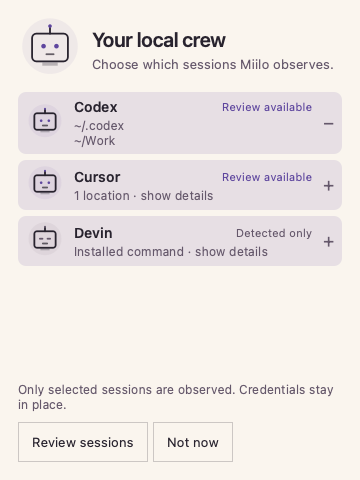
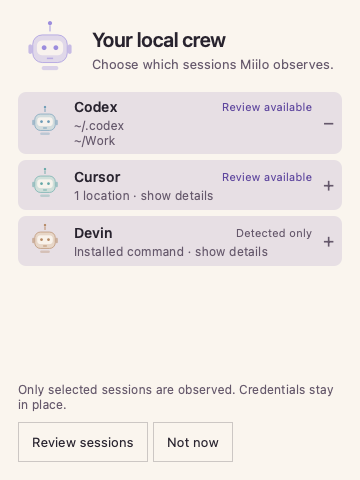
Restore original shared robots throughout native onboarding

diff --git a/assets/RobotProgram.js b/assets/RobotProgram.js
@@ -1,0 +1,3 @@
+.pragma library
+// Generated from shared robot.inc, appearance.inc and palette. Do not edit.
+var source = "widget \"miilo-portrait\" {\n size: 1x1\n  // Presentation preferences only: never alter observations or action authority.\n  state robotMotion = \"full\" persist\n  state robotPace = \"normal\" persist\n  state robotPersonality = \"expressive\" persist\n  let robotSpeed = robotPace == \"slow\" ? 0.7 : robotPace == \"lively\" ? 1.3 : 1\n  component RobotAppearance() {\n    Text { text: \"Robot personality\"; style: small; color: muted }\n    Flow {\n      gap: 6\n      for option in [\"calm\", \"expressive\"] {\n        Button { text: option == \"calm\" ? \"Calm\" : \"Expressive\"; color: robotPersonality == option ? accent : muted; onTap: robotPersonality = option }\n      }\n    }\n    Text { text: \"Motion\"; style: small; color: muted }\n    Flow {\n      gap: 6\n      for option in [\"full\", \"reduced\", \"off\"] {\n        Button { text: option == \"full\" ? \"Full\" : option == \"reduced\" ? \"Reduced\" : \"Off\"; color: robotMotion == option ? accent : muted; onTap: robotMotion = option }\n      }\n    }\n    if robotMotion != \"off\" {\n      Flow {\n        gap: 6\n        for option in [\"slow\", \"normal\", \"lively\"] {\n          Button { text: option == \"slow\" ? \"Slow\" : option == \"lively\" ? \"Lively\" : \"Normal\"; color: robotPace == option ? accent : muted; onTap: robotPace = option }\n        }\n      }\n    }\n  }\n\n state portraitAgent = {_key: \"welcome\", name: \"Miilo\", status: \"ready\", health: \"healthy\"}\n state portraitSize = 64\n state robotColors = []\n let actors = [portraitAgent]\n let works = []\n let robotPalette = [\n    {name: \"Blue\", value: blue ?? accent}, {name: \"Green\", value: green ?? accent},\n    {name: \"Purple\", value: purple ?? magenta ?? accent}, {name: \"Orange\", value: orange ?? accent},\n    {name: \"Cyan\", value: cyan ?? accent}, {name: \"Red\", value: red ?? accent}\n ]\n  component Bot(agent, s, lookX = 0, lookY = 0, slot = -1, alert = \"\") {\n    Canvas {\n      width: s\n      height: s\n      let automatic = abs(sum(split(agent._key ?? agent.id ?? agent.name ?? \"\", \"\").map(c => indexOf(split(\"0123456789abcdef\", \"\"), c)))) % len(robotPalette)\n      let chosen = get(find(robotColors, p => p.key == (agent._key ?? \"\")), \"color\", automatic)\n      let ink = mix(robotPalette[chosen % len(robotPalette)].value, foreground, 0.12)\n      let motion = robotMotion != \"off\"\n      let expressive = robotPersonality != \"calm\" && robotMotion == \"full\"\n      let clock = motion ? time * robotSpeed : 0\n      let unavailable = contains([\"offline\", \"unreachable\", \"disconnected\"], agent.status) || contains([\"offline\", \"unreachable\", \"unknown\"], agent.health)\n      let owned = works.filter(w => contains(w._actorKeys ?? [], agent._key ?? \"\"))\n      let failed = agent.status == \"failed\" || agent.status == \"error\" || any(owned, w => w.lifecycle == \"failed\")\n      let focused = !unavailable && !failed && (agent.status == \"reviewing\" || any(owned, w => w.lifecycle == \"active\" && contains([\"verifying\", \"reviewing\"], w.phase)))\n      let blocked = contains([\"blocked\", \"failed\"], agent.status) || any(works, w => contains(w._actorKeys ?? [], agent._key ?? \"\") && (w.lifecycle == \"failed\" || w.attention != \"none\"))\n      let wistful = expressive && !unavailable && blocked && (clock + max(slot, 0) * 3.7) % 23 < 2.5\n      let cx = width / 2\n      let cy = height * 0.48\n      let r = min(width, height) * 0.27\n      let on = !unavailable && !failed && contains([\"working\", \"running\"], agent.status)\n      let resting = !unavailable && contains([\"idle\", \"resting\"], agent.status) && agent.health == \"healthy\" && !blocked\n      let phase = (slot >= 0 ? slot : max(indexOf(actors, agent), 0)) * 0.8\n      let glanceTime = (clock + max(slot, 0) * 3.7) % 17\n      let glance = expressive && !unavailable && !resting && glanceTime < 2 ? pow(sin(glanceTime / 2 * 3.14159), 2) : 0\n      let eyeX = lookX * r * 0.2 * glance\n      let eyeY = lookY * r * 0.16 * glance + (wistful ? r * 0.14 : 0)\n      let blinking = motion && !unavailable && (clock + phase) % 5.8 < 0.16\n      let wink = expressive && !blocked && !focused && !unavailable && !resting && (clock + phase) % 29 > 27.8 && (clock + phase) % 29 < 28.05\n      let led = unavailable ? muted : failed || agent.health == \"degraded\" ? red : resting ? alpha(ink, 0.55) : ink\n      let bob = on && expressive ? sin(clock * 1.8 + phase) * 1.2 : 0\n      let y = cy + bob\n      // A soft halo, rounded shell, inset visor, and two luminous eyes.\n      if on && expressive {\n        circle(cx, y, r * 1.6, fill: alpha(ink, 0.07 + 0.03 * sin(clock * 2)))\n      }\n      line(cx, y - r, cx, y - r * 1.35, stroke: alpha(led, 0.6), width: 1.5)\n      circle(cx, y - r * 1.48, r * 0.12, fill: led)\n      rect(cx - r * 1.25, y - r * 0.25, r * 0.22, r * 0.55, radius: 2, fill: alpha(ink, 0.55))\n      rect(cx + r * 1.03, y - r * 0.25, r * 0.22, r * 0.55, radius: 2, fill: alpha(ink, 0.55))\n      rect(cx - r, y - r * 0.8, r * 2, r * 1.6, radius: r * 0.55, fill: mix(background, ink, 0.28), stroke: alpha(ink, 0.65), width: 1)\n      rect(cx - r * 0.76, y - r * 0.48, r * 1.52, r * 0.86, radius: r * 0.3, fill: alpha(background, 0.9))\n      if unavailable {\n        line(cx - r * 0.5, y, cx - r * 0.2, y, stroke: led, width: 1.5, cap: round)\n        line(cx + r * 0.2, y, cx + r * 0.5, y, stroke: led, width: 1.5, cap: round)\n      } else if failed {\n        for side in [-1, 1] {\n          let ex = cx + side * r * 0.34\n          line(ex - r * 0.1, y - r * 0.17, ex + r * 0.1, y + r * 0.03, stroke: led, width: 1.5, cap: round)\n          line(ex + r * 0.1, y - r * 0.17, ex - r * 0.1, y + r * 0.03, stroke: led, width: 1.5, cap: round)\n        }\n      } else if wistful {\n        line(cx - r * 0.48 + eyeX, y + r * 0.08, cx - r * 0.2 + eyeX, y + r * 0.17, stroke: led, width: 1.8, cap: round)\n        line(cx + r * 0.2 + eyeX, y + r * 0.17, cx + r * 0.48 + eyeX, y + r * 0.08, stroke: led, width: 1.8, cap: round)\n      } else if resting || blinking {\n        line(cx - r * 0.5, y, cx - r * 0.2, y, stroke: led, width: 1.5, cap: round)\n        line(cx + r * 0.2, y, cx + r * 0.5, y, stroke: led, width: 1.5, cap: round)\n      } else if focused {\n        rect(cx - r * 0.53 + eyeX, y - r * 0.1, r * 0.32, r * 0.12, radius: 1, fill: led)\n        rect(cx + r * 0.21 + eyeX, y - r * 0.1, r * 0.32, r * 0.12, radius: 1, fill: led)\n      } else if wink {\n        line(cx - r * 0.5, y, cx - r * 0.2, y, stroke: led, width: 1.5, cap: round)\n        circle(cx + r * 0.34, y - r * 0.06, r * 0.14, fill: led)\n      } else {\n        circle(cx - r * 0.34 + eyeX, y - r * 0.06 + eyeY, r * 0.14, fill: led)\n        circle(cx + r * 0.34 + eyeX, y - r * 0.06 + eyeY, r * 0.14, fill: led)\n      }\n      if blocked && !resting && !unavailable && !failed {\n        // Raised brow asks for attention; it never implies a new provider event.\n        line(cx + r * 0.18, y - r * 0.34, cx + r * 0.48, y - r * 0.42, stroke: led, width: 1.5, cap: round)\n      }\n      if alert != \"\" {\n        let markSize = min(s * 0.34, max(19.2, s * 0.288))\n        let markX = cx + r * 0.88 - 8\n        let markY = y - r * 0.7 - 7\n        if alert == \"!!\" {\n          text(\"!\", markX, markY, size: markSize, bold: true, color: mix(red, foreground, 0.15))\n          text(\"!\", markX + markSize * 0.3, markY, size: markSize, bold: true, color: mix(red, foreground, 0.15))\n        } else {\n          text(alert, markX, markY, size: markSize, bold: true, color: mix(orange, foreground, 0.2))\n        }\n      }\n      if resting {\n        // Keep the drifting letters inside the compact robot canvas.\n        for i in range(2) {\n          let drift = (motion && robotMotion == \"full\" ? clock * 0.28 + i * 0.5 : 0.2 + i * 0.4) % 1\n          text(\"z\", cx + r * (0.8 + drift * 0.55), y - r * (0.65 + drift * 0.8), size: max(9, s * 0.12) + drift * 2, bold: true, color: alpha(mix(ink, foreground, 0.8), 0.9 * (1 - drift * drift)))\n        }\n      }\n      if wistful { path([[cx - r * 0.18, y + r * 0.62], [cx, y + r * 0.52], [cx + r * 0.18, y + r * 0.62]], stroke: alpha(ink, 0.6), width: 1.5) }\n      else { line(cx - r * 0.18, y + r * 0.56, cx + r * 0.18, y + r * 0.56, stroke: alpha(ink, 0.6), width: 1.5) }\n      rect(cx - r * 0.48, y + r, r * 0.96, r * 0.24, radius: 2, fill: alpha(ink, 0.35))\n    }\n  }\n\n Bot { agent: portraitAgent; s: portraitSize }\n}\n";

diff --git a/ui/components/onboarding/RobotPortrait.qml b/ui/components/onboarding/RobotPortrait.qml
@@ -1,49 +1,61 @@
 import QtQuick
+import "../../../assets/RobotProgram.js" as RobotProgram
+import "../../../vendor/owl/Owl.js" as Owl
+import "../../../vendor/owl/OwlLayout.js" as Layout
 
-// Original decorative Miilo character. Never represents an enrolled agent.
+// Draw the original shared Bot program. No independent character geometry here.
 Canvas {
     id: root
+    property var widget: null
     property color ink: "white"
     property color accent: ink
-    property string expression: "curious"
+    property string agentKey: "welcome"
+    property string expression: "ready"
     property string motion: "reduced"
     property bool active: true
-    property real clock: 0
+    property real clock: 0.6
+    readonly property var fallbackPalette: Owl.themeFromToml('foreground="' + ink + '"\naccent="' + accent + '"\nbackground="' + (widget ? widget.ink("background") : "#16151d") + '"')
+    readonly property var colors: widget && widget.palette ? widget.palette : fallbackPalette
+    readonly property var program: Owl.compile(RobotProgram.source)
+    readonly property var slots: program.globals.reduce((result, g, i) => { result[g.name] = i; return result }, {})
+    readonly property var instance: new Owl.Instance(program, {
+        theme: name => root.colors[name] === undefined ? null : root.colors[name],
+        tile: name => null,
+        report: message => console.warn("Miilo shared portrait: " + message),
+        changed: () => {}, act: () => {},
+        runInto: () => { throw new Error("A decorative portrait must not run commands") }
+    }, {})
     implicitWidth: 56
     implicitHeight: 56
     Accessible.ignored: true
     FrameAnimation {
-        running: root.active && root.visible && root.motion === "full"
-        onTriggered: root.clock = elapsedTime
+        running: root.active && root.visible && root.motion !== "off"
+        onTriggered: root.clock = elapsedTime + 0.6
     }
     onClockChanged: requestPaint()
-    onInkChanged: requestPaint()
-    onAccentChanged: requestPaint()
+    onColorsChanged: requestPaint()
     onExpressionChanged: requestPaint()
-    onMotionChanged: { clock = 0; requestPaint() }
+    onMotionChanged: { clock = 0.6; requestPaint() }
+    onAgentKeyChanged: requestPaint()
     onWidthChanged: requestPaint()
     onHeightChanged: requestPaint()
+    function setValue(name, value) { instance.values[slots[name]] = Owl.fromJson(value) }
     onPaint: {
+        var s = Math.min(width, height);
+        if (s <= 0) return;
         var c = getContext("2d"); c.reset();
-        var s = Math.min(width,height), x = width/2, y = height*0.44;
-        var t = motion === "full" ? clock : 0;
-        var r = s*.28, blink = t > 0 && t%6.3 < .14;
-        var gaze = expression === "curious" ? Math.sin(t*.55)*r*.09 : 0;
-        function tint(color,a) { return Qt.rgba(color.r,color.g,color.b,a); }
-        c.fillStyle=tint(accent,.07); c.beginPath(); c.arc(x,y,r*1.55,0,Math.PI*2); c.fill();
-        c.strokeStyle=ink; c.lineWidth=1.8; c.lineCap="round";
-        c.beginPath(); c.roundedRect(x-r,y-r*.7,r*2,r*1.55,r*.24,r*.24); c.stroke();
-        c.beginPath(); c.moveTo(x,y-r*.7); c.lineTo(x,y-r*1.03); c.stroke();
-        c.fillStyle=accent; c.beginPath(); c.arc(x,y-r*1.12,r*.1,0,Math.PI*2); c.fill();
-        for (var side=-1;side<=1;side+=2) {
-            var ex=x+side*r*.36+gaze;
-            if (blink || expression === "resting") {
-                c.strokeStyle=accent; c.beginPath(); c.moveTo(ex-r*.12,y); c.lineTo(ex+r*.12,y); c.stroke();
-            } else {
-                c.fillStyle=accent; c.beginPath(); c.arc(ex,y,r*.13,0,Math.PI*2); c.fill();
-            }
+        setValue("portraitAgent", {_key: agentKey, name: "Miilo", status: expression === "failed" ? "failed" : expression === "resting" ? "resting" : "ready", health: "healthy"});
+        setValue("portraitSize", s);
+        setValue("robotMotion", motion);
+        if (widget && widget.instance && widget.program) {
+            var i = widget.program.globals.findIndex(g => g.name === "robotColors");
+            if (i >= 0) setValue("robotColors", Owl.toJson(widget.instance.read(i)));
         }
-        c.strokeStyle=tint(ink,.7); c.beginPath(); c.moveTo(x-r*.2,y+r*.45); c.lineTo(x+r*.2,y+r*.45); c.stroke();
-        c.fillStyle=tint(ink,.28); c.fillRect(x-r*.43,y+r*.91,r*.86,r*.18);
+        instance.invalidate();
+        instance.frame(clock);
+        var canvas = instance.render(false).children.find(node => node.kind === "Canvas");
+        if (!canvas) return;
+        c.translate((width-s)/2, (height-s)/2);
+        Layout.paint(c, canvas.draw(s,s), {foreground: ink}, "sans-serif", null);
     }
 }

diff --git a/tests/qml/CrewFixture.qml b/tests/qml/CrewFixture.qml
@@ -1,4 +1,5 @@
 import QtQuick
+import "../../vendor/owl/Owl.js" as Owl
 import QtQuick.Controls
 import "../../ui/components/onboarding/controls" as Controls
 import QtQuick.Layouts
@@ -8,7 +9,8 @@ Window {
  id: root; width: 680; height: 480; visible: true
  property bool light: false
  color: light ? "#faf5ee" : "#16151d"
- QtObject { id: fakeWidget; property int frame:0; property var instance:null; property var program:null
+ QtObject { id: fakeWidget; property int frame:0; property var instance: ({read:i => i === 0 ? Owl.fromJson([{key:"welcome",color:2}]) : "off"}); property var program: ({globals:[{name:"robotColors"},{name:"robotMotion"}]})
+  property var palette: Owl.themeFromToml('background="' + root.color + '"\nforeground="' + (root.light?"#28232e":"#eeeaf4") + '"\naccent="#ac9cf5"\npurple="#ac9cf5"\nblue="#75abc9"\ngreen="#86b88c"\norange="#c8966a"\ncyan="#6dbab8"\nred="#d38896"')
   function ink(n) { return ({foreground:root.light?"#28232e":"#eeeaf4",muted:root.light?"#65586b":"#b4aabb",accent:root.light?"#5e469e":"#ac9cf5",red:"#e07785",background:root.color.toString(),selection:"#6e6099"})[n] || "#a69cbb" }
  }
  QtObject { id: fakeController; property var agents: [

diff --git a/ui/components/onboarding/AgentSetupRow.qml b/ui/components/onboarding/AgentSetupRow.qml
@@ -25,11 +25,13 @@ ItemDelegate {
     contentItem: RowLayout {
         spacing: 10
         RobotPortrait {
+            widget: root.widget
+            agentKey: "setup-" + root.agent.name
             Layout.preferredWidth: 38
             Layout.preferredHeight: 38
             ink: root.widget.ink("foreground")
             accent: root.widget.ink(root.agent.observationSupported ? "accent" : "muted")
-            expression: root.agent.observationSupported ? "curious" : "resting"
+            expression: "ready"
             motion: "off"
         }
         ColumnLayout {

diff --git a/ui/components/onboarding/CrewHeader.qml b/ui/components/onboarding/CrewHeader.qml
@@ -17,6 +17,8 @@ RowLayout {
     spacing: 10
     Layout.fillWidth: true
     RobotPortrait {
+        widget: root.widget
+        expression: root.failed ? "failed" : "ready"
         Layout.preferredWidth: 64
         Layout.preferredHeight: 64
         ink: root.widget.ink("foreground")

diff --git a/ui/components/onboarding/SessionList.qml b/ui/components/onboarding/SessionList.qml
@@ -74,6 +74,8 @@ ListView {
             }
         }
         RobotPortrait {
+            widget: view.widget
+            agentKey: "group-" + choice.modelData.name
             visible: choice.modelData.header
             anchors.left: parent.left
             anchors.leftMargin: 38

diff --git a/.specify/evidence/orbit-crew-local.md b/.specify/evidence/orbit-crew-local.md
@@ -21,3 +21,8 @@ keyboard, focus return, performance and native Android remain pending.
 
 Reported extra native typography edits were not visible on the fetched remote main
 heads before this increment. Native agent must reconcile them, not silently discard.
+
+Original robot correction: the simplified QML character is removed. Portraits
+execute the pinned shared Bot program through the existing OWL evaluator/painter.
+Actual Qt dark/expanded/narrow-light renders and row click passed, including a
+saved-color fixture. Shared-source exact-frame parity has 54 passing comparisons.

diff --git a/docs/orbit-design.md b/docs/orbit-design.md
@@ -52,3 +52,8 @@ These are actual Qt renders with synthetic inventory, not the installed Omarchy 
 ![Compact robot invitation](images/crew-qt-fixture.png)
 
 ![Narrow light invitation](images/crew-light-qt-fixture.png)
+
+Robot identity correction: onboarding now executes assets/RobotProgram.js generated
+from the exact original shared Bot source. RobotPortrait.qml only supplies theme,
+size, saved colors and a clock to the existing OWL painter; it draws no independent
+character geometry. Previews above have been refreshed to show that correction.
